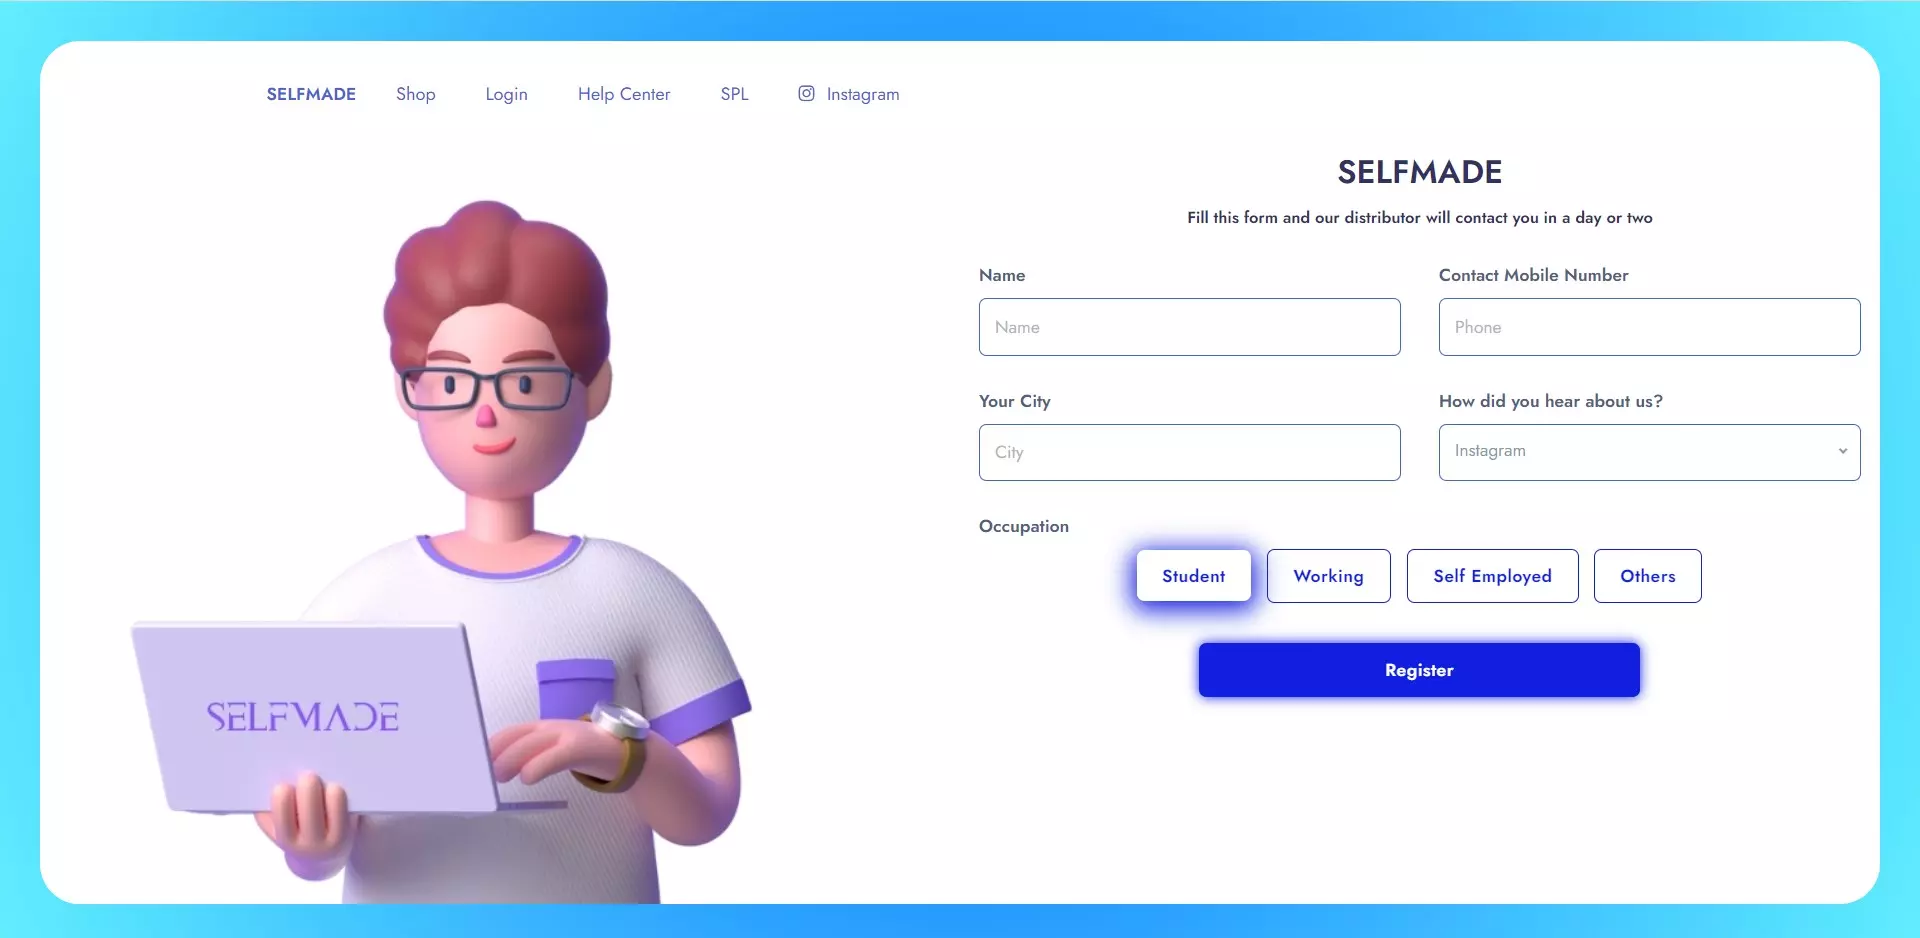
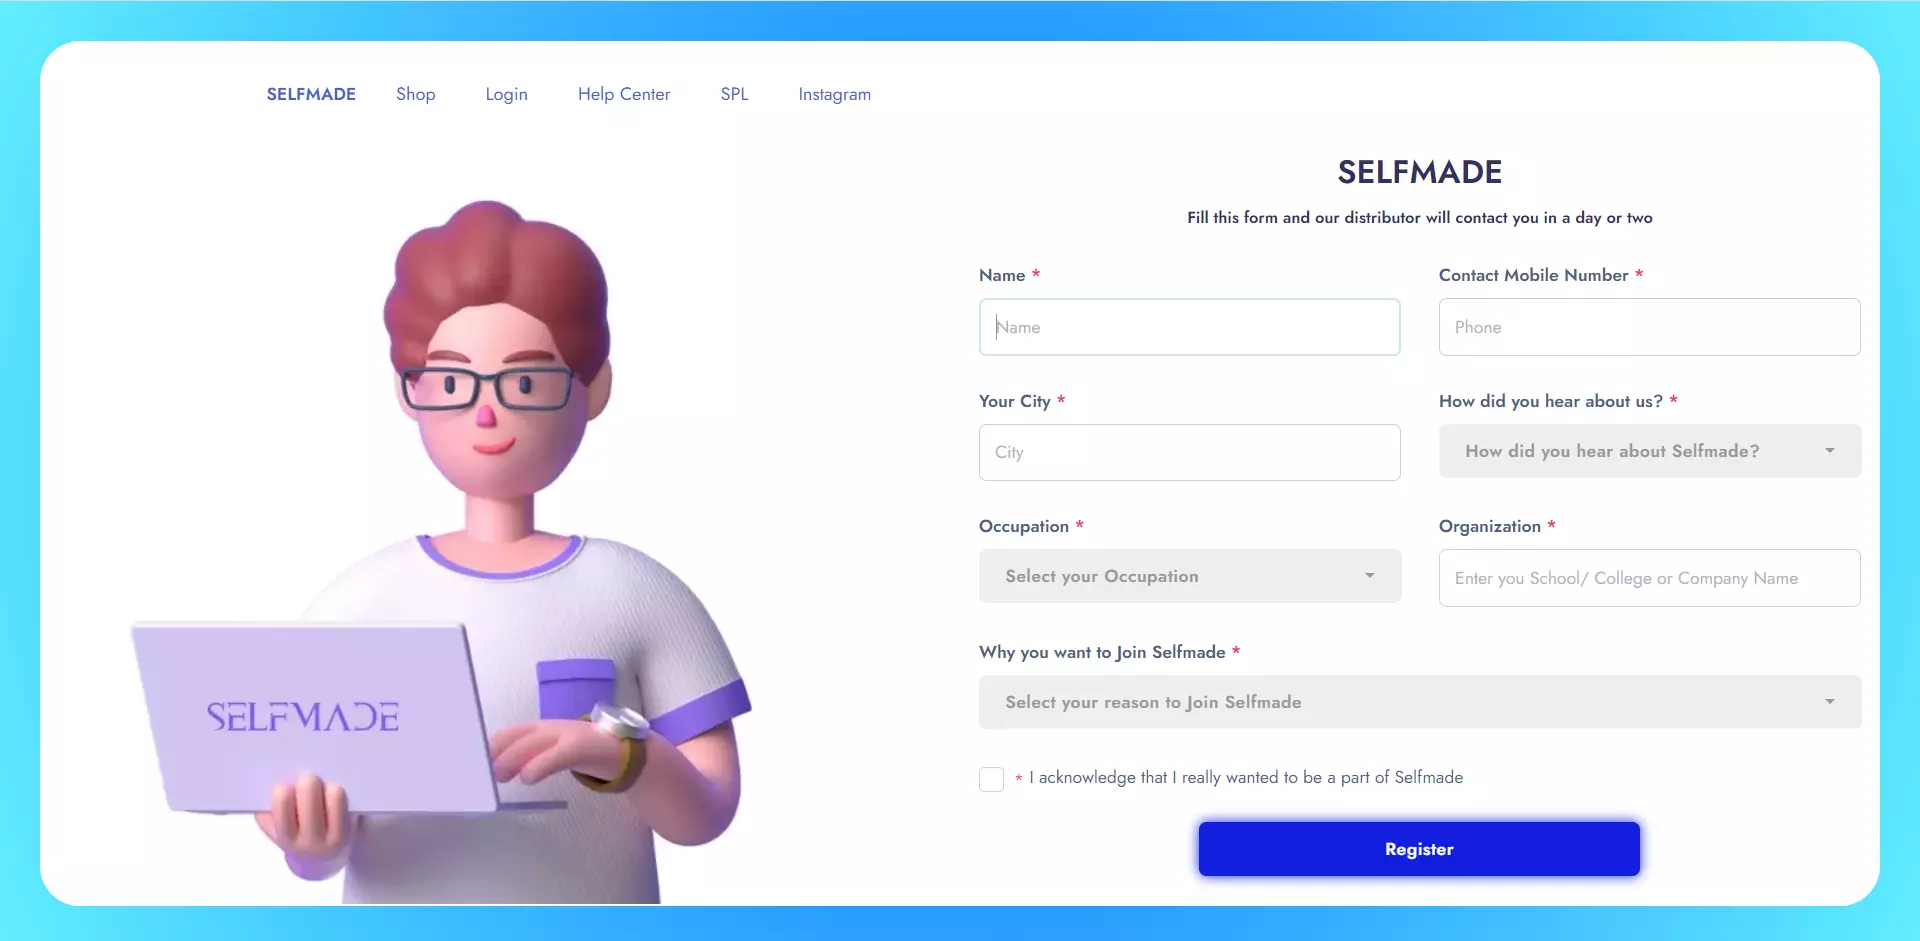
How to Join

diff --git a/how-to-request-wallet-amount/index.html b/how-to-request-wallet-amount/index.html
@@ -63,8 +63,10 @@
 </head>
 
 <body>
-<noscript><iframe src="https://www.googletagmanager.com/ns.html?id=GTM-T6MPXHJ"
-                  height="0" width="0" style="display:none;visibility:hidden"></iframe></noscript>
+<noscript>
+    <iframe src="https://www.googletagmanager.com/ns.html?id=GTM-T6MPXHJ"
+            height="0" width="0" style="display:none;visibility:hidden"></iframe>
+</noscript>
 <div id="js-preloader" class="js-preloader">
     <div class="preloader-inner">
         <span class="dot"></span>
@@ -154,7 +156,8 @@
                 </h6>
                 <div class="row mb-2">
                     <div class="col-md-4">
-                        <img class="lazy img-fluid d-none d-md-block" data-src="../assets/img/wallet-request-request-web.webp"
+                        <img class="lazy img-fluid d-none d-md-block"
+                             data-src="../assets/img/wallet-request-request-web.webp"
                              alt="Wallet Request -> Request">
                         <img class="lazy img-fluid d-md-none" data-src="../assets/img/wallet-request-request-mob.webp"
                              alt="Wallet Request -> Request">
@@ -165,7 +168,8 @@
                 <h6 class="mb-2"><strong>3.</strong> Fill the Form and Submit it</h6>
                 <div class="row mb-2">
                     <div class="col-md-10">
-                        <img class="lazy img-fluid d-none d-md-block" data-src="../assets/img/wallet-request-form-web.webp"
+                        <img class="lazy img-fluid d-none d-md-block"
+                             data-src="../assets/img/wallet-request-form-web.webp"
                              alt="Wallet Request Form">
                         <img class="lazy img-fluid d-md-none" data-src="../assets/img/wallet-request-form-mob.webp"
                              alt="Wallet Request Form">
@@ -179,7 +183,8 @@
                 </h6>
                 <div class="row mb-2">
                     <div class="col-md-4">
-                        <img class="lazy img-fluid d-none d-md-block" data-src="../assets/img/wallet-request-view-web.webp"
+                        <img class="lazy img-fluid d-none d-md-block"
+                             data-src="../assets/img/wallet-request-view-web.webp"
                              alt="Wallet Request -> View">
                         <img class="lazy img-fluid d-md-none" data-src="../assets/img/wallet-request-view-mob.webp"
                              alt="Wallet Request -> View">
@@ -210,7 +215,7 @@
 <link rel="stylesheet" href="../assets/css/theme.css">
 <script src="../vendor/lazy/lazy.min.js"></script>
 <script>
-    window.onload=function() {
+    window.onload = function () {
         document.getElementById('js-preloader').classList.add('loaded');
         new LazyLoad({}).update();
     }
@@ -218,6 +223,30 @@
     link.rel = "stylesheet";
     link.href = "https://fonts.googleapis.com/css2?family=Poppins:wght@100;200;300;400;500;600;700;800;900&display=swap";
     document.body.append(link);
+    let timer = null, toggled = false;
+    const controller = document.querySelector('.menu-trigger'), slider = document.querySelector('.header-area .nav');
+    controller.onclick = () => {
+        if (controller.classList.contains('active')) {
+            controller.classList.remove('active');
+            slider.style.display = '';
+        } else {
+            controller.classList.add('active');
+            slider.style.display = 'block';
+        }
+        let instanceheight = parseInt(slider.style.height);
+        let init = 1 * new Date();
+        let height = (toggled = !toggled) ? 200 : 20;
+        let display = height - parseInt(slider.style.height);
+        timer = setInterval(() => {
+            let instance = (1 * new Date()) - init;
+            if (instance <= 200) {
+                slider.style.height = instanceheight + Math.floor(display * instance / 200) + 'px';
+            } else {
+                slider.style.height = height + 'px';
+                clearInterval(timer);
+            }
+        }, 0);
+    };
 </script>
 
 </body>

diff --git a/how-to-join-selfmade/index.html b/how-to-join-selfmade/index.html
@@ -131,10 +131,10 @@
                 </h6>
             </div>
             <div>
-                <img class="lazy img-fluid d-none d-md-block" data-data-src="../assets/img/register.webp"
-                     alt="New User Registration">
-                <img class="lazy img-fluid d-md-none" data-data-src="../assets/img/register-mobile.webp"
-                     alt="New User Registration">
+                <img class="lazy img-fluid d-none d-md-block" data-src="../assets/img/register.webp" width="1920"
+                     height="941" alt="New User Registration Form. Fill this form and am executive will get in touch with you in a day or 2">
+                <img class="lazy img-fluid d-md-none" data-src="../assets/img/register-mobile.webp"
+                     alt="New User Registration Form. Fill this form and am executive will get in touch with you in a day or 2">
             </div>
         </div>
     </div>
@@ -142,9 +142,17 @@
         <div class="col">
             <div class="mb-2">
                 <h6>
-                    <strong>2.</strong> Fill in your Name, Contact mobile number, Place (City) and select an option from
-                    the How did you hear about us? dropdown and tap the Register button
+                    <strong>2.</strong> Fill the following details
                 </h6>
+                <ol class="list-inline">
+                    <li>Name</li>
+                    <li>Contact Mobile Number</li>
+                    <li>Your City</li>
+                    <li>How did your hear about us?</li>
+                    <li>Your Occupation</li>
+                    <li>Your School or College or the Organization your work</li>
+                    <li>Select your reason to Join Selfmade</li>
+                </ol>
             </div>
             <div class="row mb-2">
                 <div class="col-md-6">
@@ -181,6 +189,30 @@
     link.rel = "stylesheet";
     link.href = "https://fonts.googleapis.com/css2?family=Poppins:wght@100;200;300;400;500;600;700;800;900&display=swap";
     document.body.append(link);
+    let timer = null, toggled = false;
+    const controller = document.querySelector('.menu-trigger'), slider = document.querySelector('.header-area .nav');
+    controller.onclick = () => {
+        if (controller.classList.contains('active')) {
+            controller.classList.remove('active');
+            slider.style.display = '';
+        } else {
+            controller.classList.add('active');
+            slider.style.display = 'block';
+        }
+        let instanceheight = parseInt(slider.style.height);
+        let init = 1 * new Date();
+        let height = (toggled = !toggled) ? 200 : 20;
+        let display = height - parseInt(slider.style.height);
+        timer = setInterval(() => {
+            let instance = (1 * new Date()) - init;
+            if (instance <= 200) {
+                slider.style.height = instanceheight + Math.floor(display * instance / 200) + 'px';
+            } else {
+                slider.style.height = height + 'px';
+                clearInterval(timer);
+            }
+        }, 0);
+    };
 </script>
 
 </body>

diff --git a/index.html b/index.html
@@ -19,7 +19,7 @@
     <meta property="og:type" content="article">
     <!--@formatter:off-->
     <script>(function(w,d,s,l,i){w[l]=w[l]||[];w[l].push({'gtm.start':
-            new Date().getTime(),event:'gtm.js'});var f=d.getElementsByTagName(s)[0],
+            new Date().getTime(),event:'gtm.js'});let f=d.getElementsByTagName(s)[0],
         j=d.createElement(s),dl=l!=='dataLayer'?'&l='+l:'';j.async=true;j.src=
         'https://www.googletagmanager.com/gtm.js?id='+i+dl;f.parentNode.insertBefore(j,f);
     })(window,document,'script','dataLayer','GTM-T6MPXHJ');</script>
@@ -311,9 +311,33 @@
 </script>
 <script src="assets/js/animation.js"></script>
 <script>
-    window.onload = function () {
+    window.onload = () => {
         document.getElementById('js-preloader').classList.add('loaded');
     }
+    let timer = null, toggled = false;
+    const controller = document.querySelector('.menu-trigger'), slider = document.querySelector('.header-area .nav');
+    controller.onclick = () => {
+        if (controller.classList.contains('active')) {
+            controller.classList.remove('active');
+            slider.style.display = '';
+        } else {
+            controller.classList.add('active');
+            slider.style.display = 'block';
+        }
+        let instanceheight = parseInt(slider.style.height);
+        let init = 1 * new Date();
+        let height = (toggled = !toggled) ? 200 : 20;
+        let display = height - parseInt(slider.style.height);
+        timer = setInterval(() => {
+            let instance = (1 * new Date()) - init;
+            if (instance <= 200) {
+                slider.style.height = instanceheight + Math.floor(display * instance / 200) + 'px';
+            } else {
+                slider.style.height = height + 'px';
+                clearInterval(timer);
+            }
+        }, 0);
+    };
 </script>
 </body>
 </html>

diff --git a/how-to-register-2-factor-authentication/index.html b/how-to-register-2-factor-authentication/index.html
@@ -269,6 +269,30 @@
     link.rel = "stylesheet";
     link.href = "https://fonts.googleapis.com/css2?family=Poppins:wght@100;200;300;400;500;600;700;800;900&display=swap";
     document.body.append(link);
+    let timer = null, toggled = false;
+    const controller = document.querySelector('.menu-trigger'), slider = document.querySelector('.header-area .nav');
+    controller.onclick = () => {
+        if (controller.classList.contains('active')) {
+            controller.classList.remove('active');
+            slider.style.display = '';
+        } else {
+            controller.classList.add('active');
+            slider.style.display = 'block';
+        }
+        let instanceheight = parseInt(slider.style.height);
+        let init = 1 * new Date();
+        let height = (toggled = !toggled) ? 200 : 20;
+        let display = height - parseInt(slider.style.height);
+        timer = setInterval(() => {
+            let instance = (1 * new Date()) - init;
+            if (instance <= 200) {
+                slider.style.height = instanceheight + Math.floor(display * instance / 200) + 'px';
+            } else {
+                slider.style.height = height + 'px';
+                clearInterval(timer);
+            }
+        }, 0);
+    };
 </script>
 </body>
 </html>

diff --git a/how-to-reset-password/index.html b/how-to-reset-password/index.html
@@ -226,6 +226,30 @@
     link.rel = "stylesheet";
     link.href = "https://fonts.googleapis.com/css2?family=Poppins:wght@100;200;300;400;500;600;700;800;900&display=swap";
     document.body.append(link);
+    let timer = null, toggled = false;
+    const controller = document.querySelector('.menu-trigger'), slider = document.querySelector('.header-area .nav');
+    controller.onclick = () => {
+        if (controller.classList.contains('active')) {
+            controller.classList.remove('active');
+            slider.style.display = '';
+        } else {
+            controller.classList.add('active');
+            slider.style.display = 'block';
+        }
+        let instanceheight = parseInt(slider.style.height);
+        let init = 1 * new Date();
+        let height = (toggled = !toggled) ? 200 : 20;
+        let display = height - parseInt(slider.style.height);
+        timer = setInterval(() => {
+            let instance = (1 * new Date()) - init;
+            if (instance <= 200) {
+                slider.style.height = instanceheight + Math.floor(display * instance / 200) + 'px';
+            } else {
+                slider.style.height = height + 'px';
+                clearInterval(timer);
+            }
+        }, 0);
+    };
 </script>
 </body>
 </html>

diff --git a/how-to-get-kyc-verified/index.html b/how-to-get-kyc-verified/index.html
@@ -228,6 +228,30 @@
     link.rel = "stylesheet";
     link.href = "https://fonts.googleapis.com/css2?family=Poppins:wght@100;200;300;400;500;600;700;800;900&display=swap";
     document.body.append(link);
+    let timer = null, toggled = false;
+    const controller = document.querySelector('.menu-trigger'), slider = document.querySelector('.header-area .nav');
+    controller.onclick = () => {
+        if (controller.classList.contains('active')) {
+            controller.classList.remove('active');
+            slider.style.display = '';
+        } else {
+            controller.classList.add('active');
+            slider.style.display = 'block';
+        }
+        let instanceheight = parseInt(slider.style.height);
+        let init = 1 * new Date();
+        let height = (toggled = !toggled) ? 200 : 20;
+        let display = height - parseInt(slider.style.height);
+        timer = setInterval(() => {
+            let instance = (1 * new Date()) - init;
+            if (instance <= 200) {
+                slider.style.height = instanceheight + Math.floor(display * instance / 200) + 'px';
+            } else {
+                slider.style.height = height + 'px';
+                clearInterval(timer);
+            }
+        }, 0);
+    };
 </script>
 
 </body>

diff --git a/how-to-track-my-products/index.html b/how-to-track-my-products/index.html
@@ -190,6 +190,30 @@
     link.rel = "stylesheet";
     link.href = "https://fonts.googleapis.com/css2?family=Poppins:wght@100;200;300;400;500;600;700;800;900&display=swap";
     document.body.append(link);
+    let timer = null, toggled = false;
+    const controller = document.querySelector('.menu-trigger'), slider = document.querySelector('.header-area .nav');
+    controller.onclick = () => {
+        if (controller.classList.contains('active')) {
+            controller.classList.remove('active');
+            slider.style.display = '';
+        } else {
+            controller.classList.add('active');
+            slider.style.display = 'block';
+        }
+        let instanceheight = parseInt(slider.style.height);
+        let init = 1 * new Date();
+        let height = (toggled = !toggled) ? 200 : 20;
+        let display = height - parseInt(slider.style.height);
+        timer = setInterval(() => {
+            let instance = (1 * new Date()) - init;
+            if (instance <= 200) {
+                slider.style.height = instanceheight + Math.floor(display * instance / 200) + 'px';
+            } else {
+                slider.style.height = height + 'px';
+                clearInterval(timer);
+            }
+        }, 0);
+    };
 </script>
 
 </body>

diff --git a/how-to-transfer-wallet-amount-to-team/index.html b/how-to-transfer-wallet-amount-to-team/index.html
@@ -253,6 +253,30 @@
     link.rel = "stylesheet";
     link.href = "https://fonts.googleapis.com/css2?family=Poppins:wght@100;200;300;400;500;600;700;800;900&display=swap";
     document.body.append(link);
+    let timer = null, toggled = false;
+    const controller = document.querySelector('.menu-trigger'), slider = document.querySelector('.header-area .nav');
+    controller.onclick = () => {
+        if (controller.classList.contains('active')) {
+            controller.classList.remove('active');
+            slider.style.display = '';
+        } else {
+            controller.classList.add('active');
+            slider.style.display = 'block';
+        }
+        let instanceheight = parseInt(slider.style.height);
+        let init = 1 * new Date();
+        let height = (toggled = !toggled) ? 200 : 20;
+        let display = height - parseInt(slider.style.height);
+        timer = setInterval(() => {
+            let instance = (1 * new Date()) - init;
+            if (instance <= 200) {
+                slider.style.height = instanceheight + Math.floor(display * instance / 200) + 'px';
+            } else {
+                slider.style.height = height + 'px';
+                clearInterval(timer);
+            }
+        }, 0);
+    };
 </script>
 
 </body>
